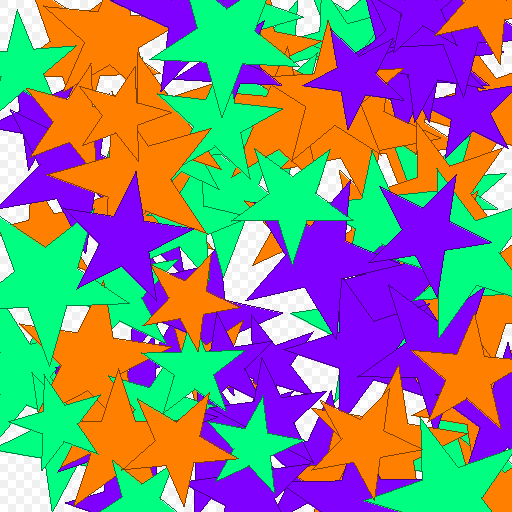
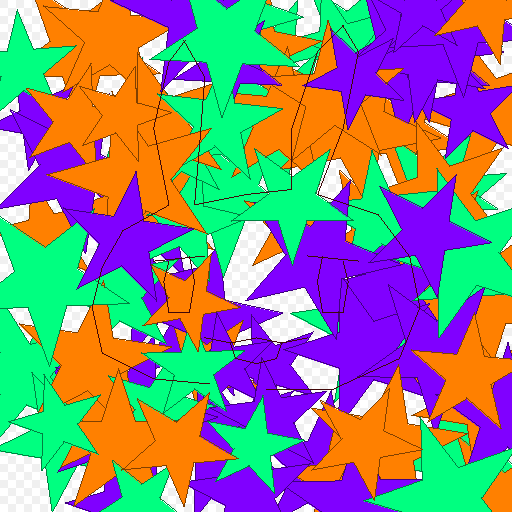
fuwafuwa no nuigurumi dayo

Changed region(s): [[0.625, 0.5, 0.6875, 0.5312], [0.3125, 0.5, 0.375, 0.5312], [0.375, 0.375, 0.4062, 0.4062]]

diff --git a/src/main.rs b/src/main.rs
@@ -25,7 +25,7 @@ fn main() {
         points.iter().map(|p| transform(p, t, r, (s, s))).collect::<Vec<_>>()
     }).collect::<Vec<_>>();
 
-    println!("{:?}", shapes);
+    //println!("{:?}", shapes);
 
     let mut img = ImageBuffer::from_fn(width, height, |x, y| {
         if (x / 8 + y / 8) % 2 == 0 {
@@ -51,6 +51,8 @@ fn main() {
             draw_line(&mut img, s[0], s[1], image::Rgb([[128, 64, 0], [0, 128, 64], [64, 0, 128]][si % 3]));
         }
     }
+
+    draw_nanachi(&mut img);
 
     let res = img.save("./my_image.png");
     println!("{:?}", res);
@@ -94,6 +96,91 @@ fn draw_line(img: &mut ImageBuffer<image::Rgb<u8>, Vec<u8>>, mut p1: (f64, f64),
             if 0.0 <= y && y < img.height() as f64 {
                 img.put_pixel(x, y as u32, pixel);
             }
+        }
+    }
+}
+
+fn draw_nanachi(img: &mut ImageBuffer<image::Rgb<u8>, Vec<u8>>) {
+    let nanachi = vec![
+        // contour
+        vec![
+            (0.41, 0.75),
+            (0.30, 0.74),
+            (0.20, 0.69),
+            (0.18, 0.60),
+            (0.20, 0.52),
+            (0.24, 0.45),
+            (0.33, 0.40),
+            (0.30, 0.25),
+            (0.33, 0.12),
+            (0.36, 0.08),
+            (0.40, 0.15),
+            (0.39, 0.28),
+            (0.38, 0.40),
+            (0.48, 0.38),
+            (0.57, 0.37),
+            (0.57, 0.25),
+            (0.62, 0.10),
+            (0.67, 0.05),
+            (0.70, 0.10),
+            (0.67, 0.25),
+            (0.62, 0.38),
+            (0.74, 0.42),
+            (0.80, 0.50),
+            (0.82, 0.60),
+            (0.78, 0.70),
+            (0.65, 0.76),
+            (0.52, 0.76),
+        ],
+        // left eyelid
+        vec![
+            (0.30, 0.51),
+            (0.40, 0.50),
+        ],
+        // left eye
+        vec![
+            (0.33, 0.51),
+            (0.32, 0.55),
+            (0.33, 0.61),
+            (0.37, 0.61),
+            (0.38, 0.55),
+            (0.37, 0.50),
+        ],
+        // right eyelid
+        vec![
+            (0.60, 0.50),
+            (0.70, 0.51),
+        ],
+        // right
+        vec![
+            (0.63, 0.50),
+            (0.62, 0.55),
+            (0.63, 0.61),
+            (0.67, 0.61),
+            (0.68, 0.55),
+            (0.67, 0.51),
+        ],
+        // upper lip
+        vec![
+            (0.40, 0.66),
+            (0.45, 0.67),
+            (0.50, 0.66),
+            (0.55, 0.67),
+            (0.60, 0.66),
+        ],
+        // lower lip
+        vec![
+            (0.45, 0.67),
+            (0.46, 0.70),
+            (0.50, 0.71),
+            (0.54, 0.70),
+            (0.55, 0.67),
+        ],
+    ].iter().map(|v| v.iter().map(|p| (p.0 * 512.0, p.1 * 512.0)).collect::<Vec<_>>()).collect::<Vec<_>>();
+
+    for ps in nanachi.iter() {
+        for s in ps.windows(2) {
+            draw_line(img, s[0], s[1], image::Rgb([64, 8, 8]));
         }
     }
 }
